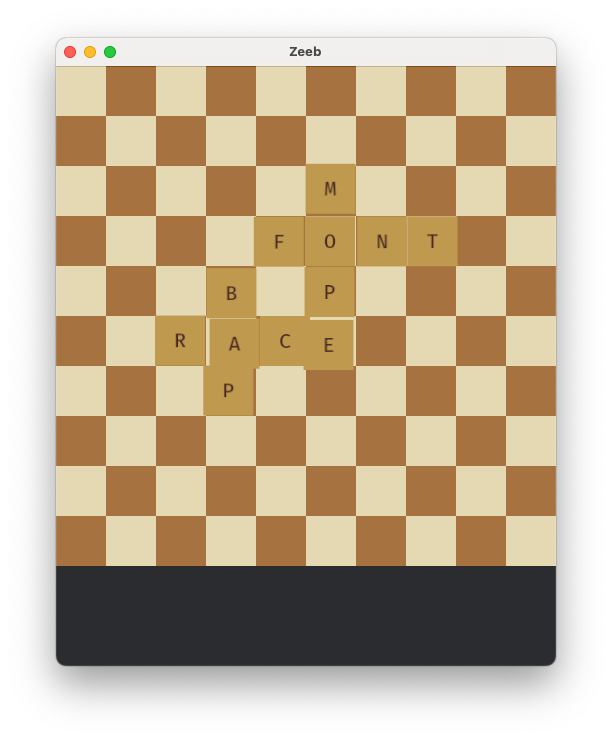
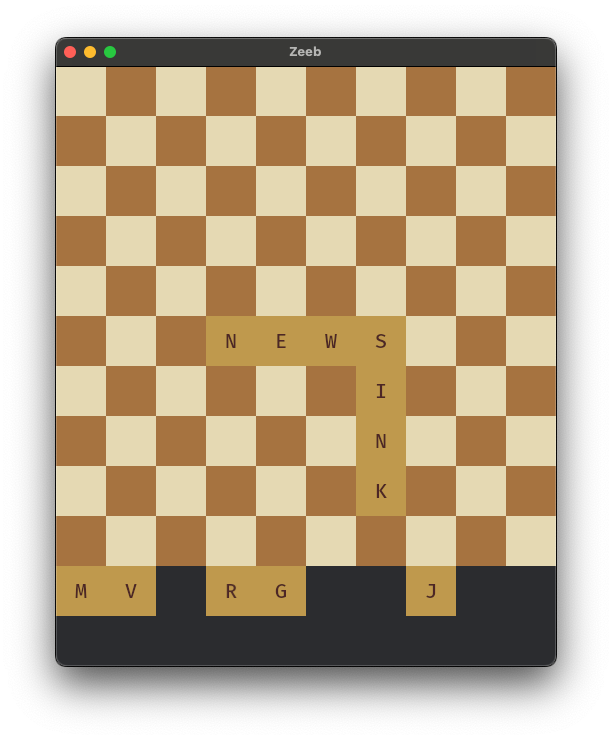
Update screenshot for readme

diff --git a/README.md b/README.md
@@ -11,8 +11,6 @@ This implementation is built on Bevy in Rust.
 
 ## Screenshot
 
-(The tiles don't snap to the grid yet, ignore that :D)
-
 <img src="screenshot.png">
 
 ## License
